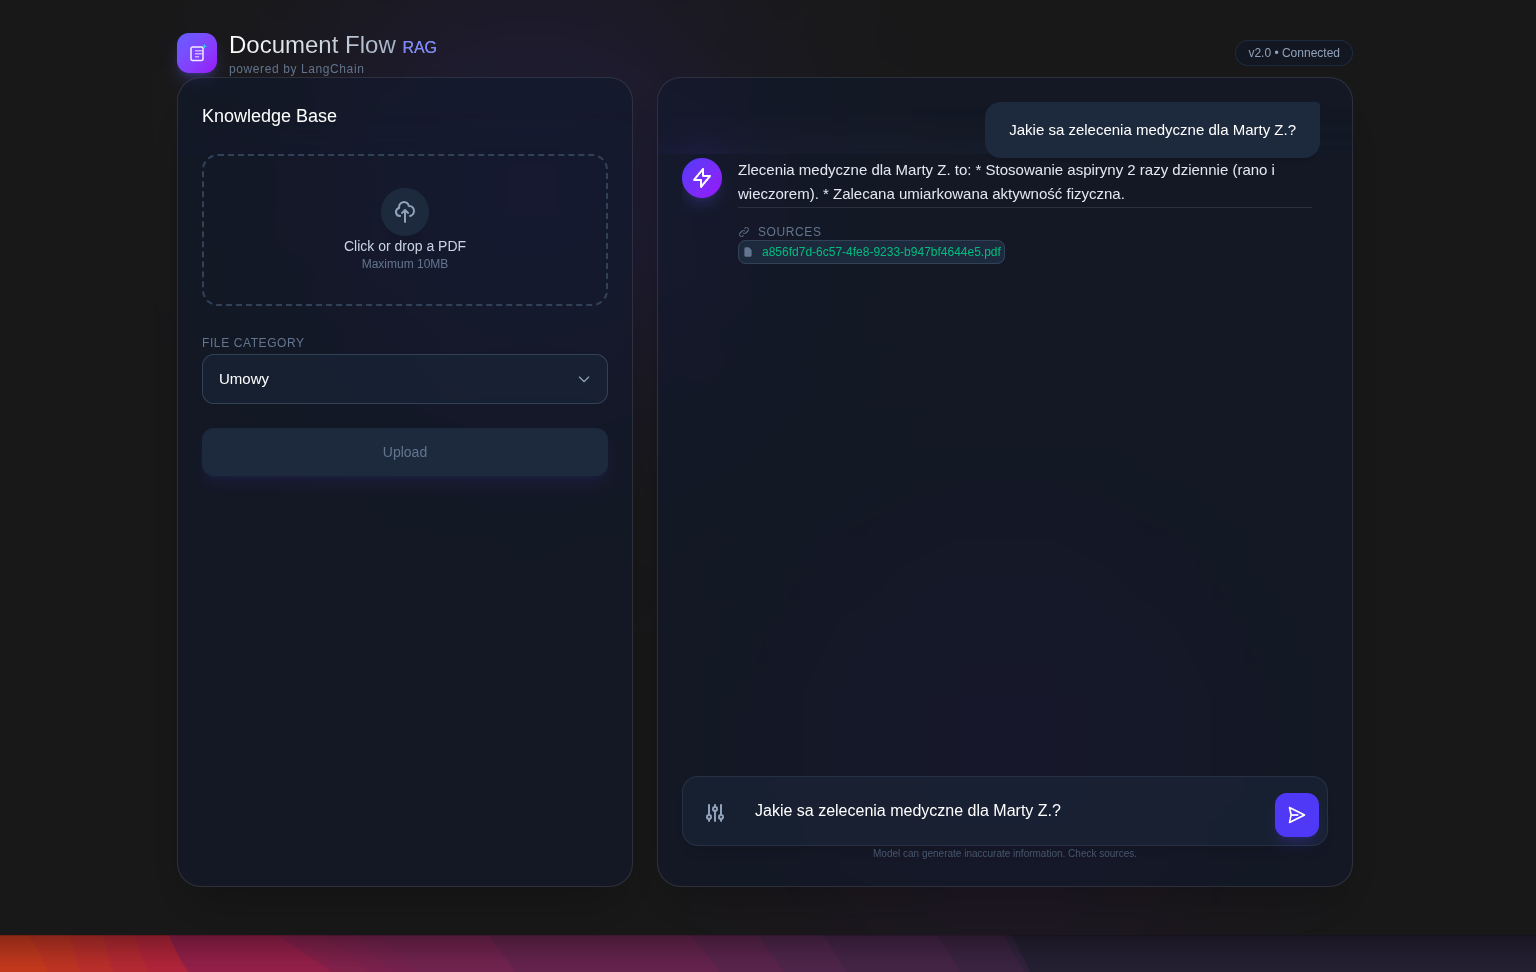
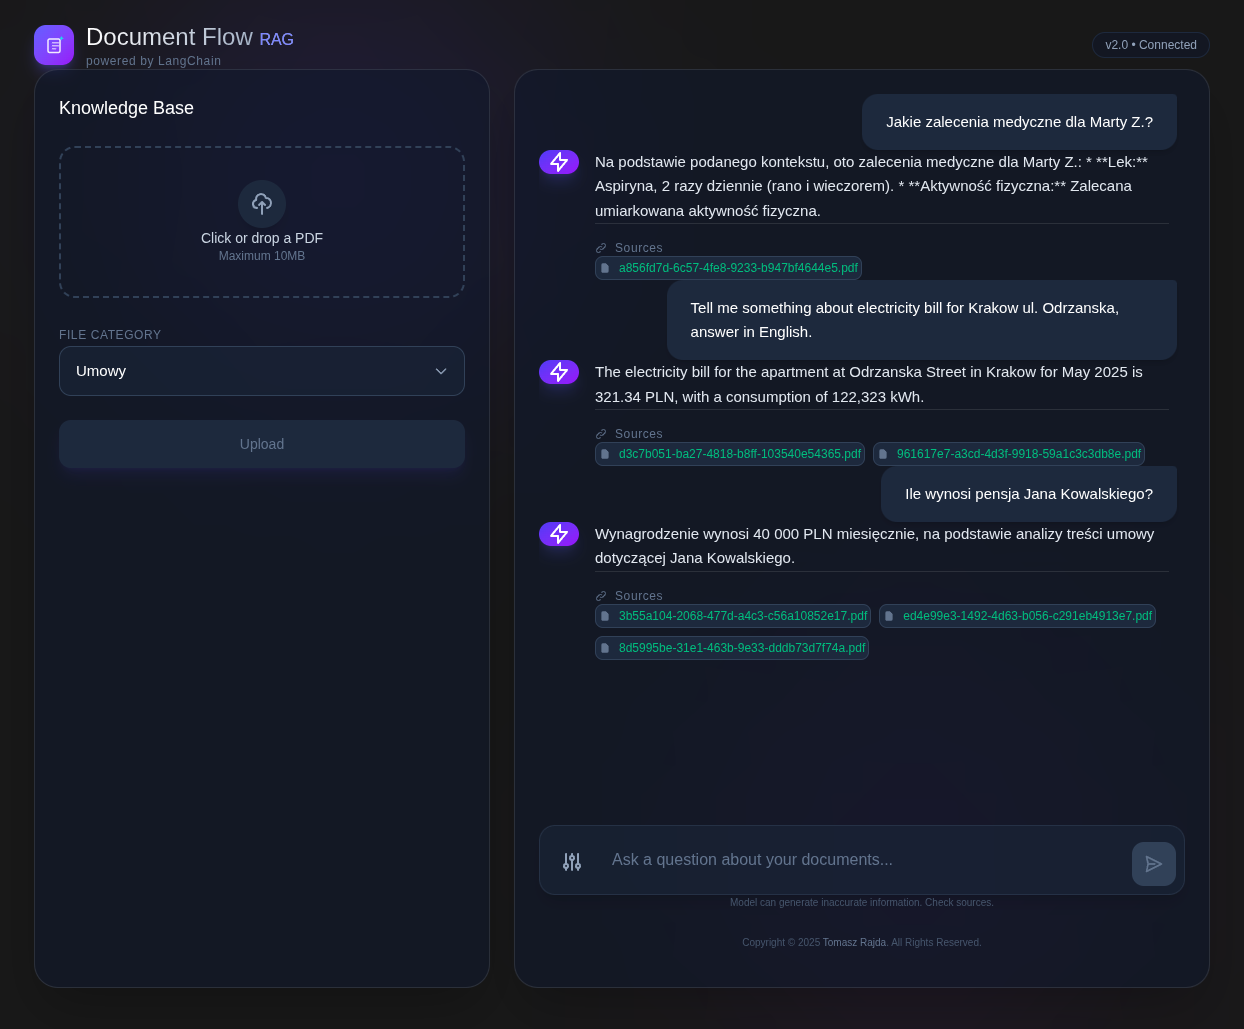
frontend update, readme

diff --git a/frontend/src/App.vue b/frontend/src/App.vue
@@ -9,12 +9,13 @@ const selectedFile = ref(null);
 const uploadCategory = ref("Umowy");
 const queryQuestion = ref("");
 const searchCategory = ref([]);
-const answer = ref("");
+//const answer = ref("");
 const loading = ref(false);
-const sources = ref([]);
+//const sources = ref([]);
 const uploadStatus = ref(""); // Zamiast alertów
 const isDragging = ref(false);
 const showFilters = ref(false); 
+const chatHistory = ref([]); 
 
 // Helper: Format file size
 const formatSize = (bytes) => {
@@ -73,36 +74,55 @@ const handleFileUpload = async () => {
 
 const handleQuery = async () => {
   if (!queryQuestion.value) return;
+
+  // 1. Zapisz treść pytania i wyczyść input natychmiast
+  const questionText = queryQuestion.value;
+  queryQuestion.value = ""; // Dymek użytkownika przestanie się zmieniać
+  
+  // 2. Dodaj pytanie użytkownika do historii
+  chatHistory.value.push({
+    role: "user",
+    content: questionText
+  });
+
   loading.value = true;
-  answer.value = "";
-  sources.value = [];
 
   const categoriesToSearch = searchCategory.value.length > 0 
     ? searchCategory.value 
-    : ["Umowy", "Medyczne", "Inne"]; // Domyślnie szukaj wszędzie jak nic nie wybrano
-
-  const payload = {
-    question: queryQuestion.value,
-    categories_to_search: categoriesToSearch,
-  };
+    : ["Umowy", "Medyczne", "Inne"];
 
   try {
     const response = await fetch(`${API_URL}/query`, {
       method: "POST",
       headers: { "Content-Type": "application/json" },
-      body: JSON.stringify(payload),
+      body: JSON.stringify({
+        question: questionText, // Używamy zapamiętanej zmiennej, nie refa!
+        categories_to_search: categoriesToSearch,
+      }),
     });
 
     const data = await response.json();
 
     if (response.ok) {
-      answer.value = data.answer || "No response.";
-      sources.value = data.source_files || [];
+      // 3. Dodaj odpowiedź AI do historii
+      chatHistory.value.push({
+        role: "assistant",
+        content: data.answer || "Brak odpowiedzi.",
+        sources: data.source_files || []
+      });
     } else {
-      answer.value = `Error RAG: ${data.detail || "Unknown error"}`;
+      chatHistory.value.push({
+        role: "assistant",
+        content: `Błąd RAG: ${data.detail || "Nieznany błąd"}`,
+        sources: []
+      });
     }
   } catch (e) {
-    answer.value = "Error connecting to the model.";
+    chatHistory.value.push({
+      role: "assistant",
+      content: "Błąd połączenia z serwerem AI.",
+      sources: []
+    });
   } finally {
     loading.value = false;
   }
@@ -228,8 +248,7 @@ const handleQuery = async () => {
           <div class="bg-slate-900/60 backdrop-blur-xl border border-white/10 rounded-3xl p-6 shadow-2xl flex flex-col h-full relative overflow-hidden">
             
             <!-- Empty State (Before Search) -->
-            <div v-if="!answer && !loading" class="flex-1 flex flex-col items-center justify-center text-center opacity-60">
-              <div class="w-20 h-20 bg-slate-800/50 rounded-full flex items-center justify-center mb-6 border border-white/5">
+            <div v-if="chatHistory.length === 0 && !loading" class="flex-1 flex flex-col items-center justify-center text-center opacity-60">              <div class="w-20 h-20 bg-slate-800/50 rounded-full flex items-center justify-center mb-6 border border-white/5">
                 <svg class="w-10 h-10 text-slate-500" fill="none" stroke="currentColor" viewBox="0 0 24 24"><path stroke-linecap="round" stroke-linejoin="round" stroke-width="1.5" d="M8 10h.01M12 10h.01M16 10h.01M9 16H5a2 2 0 01-2-2V6a2 2 0 012-2h14a2 2 0 012 2v8a2 2 0 01-2 2h-5l-5 5v-5z"></path></svg>
               </div>
               <h3 class="text-xl font-semibold text-white mb-2">How can I help you?</h3>
@@ -246,60 +265,67 @@ const handleQuery = async () => {
               </div>
             </div>
 
-            <!-- Result Area -->
+            <!-- Result Area (CHAT HISTORY) -->
+            <!-- v-else odnosi się do v-if="chatHistory.length === 0 && !loading" w sekcji powitalnej (musisz tam też poprawić warunek!) -->
             <div v-else class="flex-1 overflow-y-auto custom-scrollbar pr-2 mb-6 space-y-6">
-              <!-- User Question Bubble -->
-              <div class="flex justify-end">
-                <div class="bg-slate-800 text-white px-6 py-4 rounded-2xl rounded-tr-sm max-w-[80%] shadow-md">
-                  <p>{{ queryQuestion }}</p>
-                </div>
-              </div>
-
-              <!-- AI Loading -->
-              <div v-if="loading" class="flex gap-4 max-w-[90%] animate-pulse">
-                <div class="w-10 h-10 rounded-full bg-indigo-600 flex-shrink-0 flex items-center justify-center">
-                  <svg class="w-6 h-6 text-white animate-spin-slow" fill="none" viewBox="0 0 24 24"><path stroke="currentColor" stroke-linecap="round" stroke-linejoin="round" stroke-width="2" d="M12 6v6m0 0v6m0-6h6m-6 0H6"></path></svg>
-                </div>
-                <div class="space-y-3 w-full">
-                  <div class="h-4 bg-slate-800 rounded w-3/4"></div>
-                  <div class="h-4 bg-slate-800 rounded w-1/2"></div>
-                  <div class="h-4 bg-slate-800 rounded w-5/6"></div>
-                </div>
-              </div>
-
-              <!-- AI Answer -->
-              <div v-if="answer && !loading" class="flex gap-4 animate-fade-in-up">
-                <div class="w-10 h-10 rounded-full bg-gradient-to-br from-indigo-600 to-purple-600 flex-shrink-0 flex items-center justify-center shadow-lg shadow-indigo-500/20">
-                  <svg class="w-6 h-6 text-white" fill="none" stroke="currentColor" viewBox="0 0 24 24"><path stroke-linecap="round" stroke-linejoin="round" stroke-width="2" d="M13 10V3L4 14h7v7l9-11h-7z"></path></svg>
-                </div>
+              
+              <!-- Pętla po historii wiadomości -->
+              <div v-for="(msg, index) in chatHistory" :key="index">
                 
-                <div class="space-y-4 max-w-[90%]">
-                  <div class="prose prose-invert prose-sm bg-transparent text-slate-200 leading-relaxed">
-                   <!-- Simple replacement for markdown rendering, in real app use marked or similar -->
-                    <p>{{ answer }}</p>
+                <!-- WIADOMOŚĆ UŻYTKOWNIKA -->
+                <div v-if="msg.role === 'user'" class="flex justify-end animate-fade-in-up">
+                  <div class="bg-slate-800 text-white px-6 py-4 rounded-2xl rounded-tr-sm max-w-[80%] shadow-md">
+                    <p>{{ msg.content }}</p>
                   </div>
+                </div>
 
-                  <!-- Sources Section -->
-                  <div v-if="sources.length > 0" class="pt-4 border-t border-white/10">
-                    <p class="text-xs font-bold text-slate-500 uppercase tracking-wider mb-3 flex items-center gap-2">
-                      <svg class="w-3 h-3" fill="none" stroke="currentColor" viewBox="0 0 24 24"><path stroke-linecap="round" stroke-linejoin="round" stroke-width="2" d="M13.828 10.172a4 4 0 00-5.656 0l-4 4a4 4 0 105.656 5.656l1.102-1.101m-.758-4.899a4 4 0 005.656 0l4-4a4 4 0 00-5.656-5.656l-1.1 1.1"></path></svg>
-                      Sources
-                    </p>
-                    <div class="flex flex-wrap gap-2">
-                      <a
-                        v-for="src in sources"
-                        :key="src"
-                        :href="`${API_URL}/document/${src}`"
-                        target="_blank"
-                        class="group flex items-center gap-2 px-3 py-1.5 bg-slate-800 hover:bg-indigo-600/20 border border-slate-700 hover:border-indigo-500/50 rounded-lg transition-all duration-200 cursor-pointer text-xs text-slate-300 hover:text-indigo-300"
-                      >
-                        <svg class="w-3 h-3 text-slate-500 group-hover:text-indigo-400" fill="currentColor" viewBox="0 0 20 20"><path fill-rule="evenodd" d="M4 4a2 2 0 012-2h4.586A2 2 0 0112 2.586L15.414 6A2 2 0 0116 7.414V16a2 2 0 01-2 2H6a2 2 0 01-2-2V4z" clip-rule="evenodd"></path></svg>
-                        {{ src }}.pdf
-                      </a>
+                <!-- WIADOMOŚĆ AI -->
+                <div v-else class="flex gap-4 animate-fade-in-up">
+                  <!-- Ikona AI -->
+                  <div class="w-10 h-10 rounded-full bg-gradient-to-br from-indigo-600 to-purple-600 flex-shrink-0 flex items-center justify-center shadow-lg shadow-indigo-500/20 h-fit">
+                    <svg class="w-6 h-6 text-white" fill="none" stroke="currentColor" viewBox="0 0 24 24"><path stroke-linecap="round" stroke-linejoin="round" stroke-width="2" d="M13 10V3L4 14h7v7l9-11h-7z"></path></svg>
+                  </div>
+                  
+                  <div class="space-y-4 max-w-[90%]">
+                    <!-- Treść -->
+                    <div class="prose prose-invert prose-sm md:prose-base bg-transparent text-slate-200 leading-relaxed max-w-none">
+                      <p>{{ msg.content }}</p>
+                    </div>
+
+                    <!-- Źródła (tylko jeśli są w tej wiadomości) -->
+                    <div v-if="msg.sources && msg.sources.length > 0" class="pt-4 border-t border-white/10">
+                      <p class="text-xs font-bold text-slate-500 tracking-wider mb-3 flex items-center gap-2">
+                        <svg class="w-3 h-3" fill="none" stroke="currentColor" viewBox="0 0 24 24"><path stroke-linecap="round" stroke-linejoin="round" stroke-width="2" d="M13.828 10.172a4 4 0 00-5.656 0l-4 4a4 4 0 105.656 5.656l1.102-1.101m-.758-4.899a4 4 0 005.656 0l4-4a4 4 0 00-5.656-5.656l-1.1 1.1"></path></svg>
+                        Sources
+                      </p>
+                      <div class="flex flex-wrap gap-2">
+                        <a
+                          v-for="src in msg.sources"
+                          :key="src"
+                          :href="`${API_URL}/document/${src}`"
+                          target="_blank"
+                          class="group flex items-center gap-2 px-3 py-1.5 bg-slate-800 hover:bg-indigo-600/20 border border-slate-700 hover:border-indigo-500/50 rounded-lg transition-all duration-200 cursor-pointer text-xs text-slate-300 hover:text-indigo-300"
+                        >
+                          <svg class="w-3 h-3 text-slate-500 group-hover:text-indigo-400" fill="currentColor" viewBox="0 0 20 20"><path fill-rule="evenodd" d="M4 4a2 2 0 012-2h4.586A2 2 0 0112 2.586L15.414 6A2 2 0 0116 7.414V16a2 2 0 01-2 2H6a2 2 0 01-2-2V4z" clip-rule="evenodd"></path></svg>
+                          {{ src }}.pdf
+                        </a>
+                      </div>
                     </div>
                   </div>
                 </div>
               </div>
+
+              <!-- LOADING INDICATOR (Pokazuje się na dole, gdy czekamy na nowe) -->
+              <div v-if="loading" class="flex gap-4 max-w-[90%] animate-pulse mt-4">
+                <div class="w-10 h-10 rounded-full bg-indigo-600 flex-shrink-0 flex items-center justify-center">
+                  <svg class="w-6 h-6 text-white animate-spin-slow" fill="none" viewBox="0 0 24 24"><path stroke="currentColor" stroke-linecap="round" stroke-linejoin="round" stroke-width="2" d="M12 6v6m0 0v6m0-6h6m-6 0H6"></path></svg>
+                </div>
+                <div class="space-y-3 w-full pt-2">
+                  <div class="h-4 bg-slate-800 rounded w-3/4"></div>
+                  <div class="h-4 bg-slate-800 rounded w-1/2"></div>
+                </div>
+              </div>
+
             </div>
 
             <!-- Input Area (Fixed at bottom) -->
@@ -364,10 +390,18 @@ const handleQuery = async () => {
                 <svg class="w-5 h-5 transform rotate-90" fill="none" stroke="currentColor" viewBox="0 0 24 24"><path stroke-linecap="round" stroke-linejoin="round" stroke-width="2" d="M12 19l9 2-9-18-9 18 9-2zm0 0v-8"></path></svg>
               </button>
             </div>
-             <p class="text-[10px] text-slate-600 text-center mt-2">Model can generate inaccurate information. Check sources.</p>
-
-          </div>
+              <!-- Stopka (Wrapper) -->
+              <div class="mt-8 flex-shrink-0 flex flex-col items-center gap-6 pb-3">  
+                <p class="text-[10px] text-slate-600 text-center mt-8">
+                  Model can generate inaccurate information. Check sources.
+                </p>
+                <p class="text-[10px] text-slate-600 text-center">
+                  Copyright © 2025 <strong class="text-slate-500">Tomasz Rajda</strong>. All Rights Reserved.
+                </p>
+              </div>
+            </div>
         </section>
+        
       </main>
     </div>
   </div>
